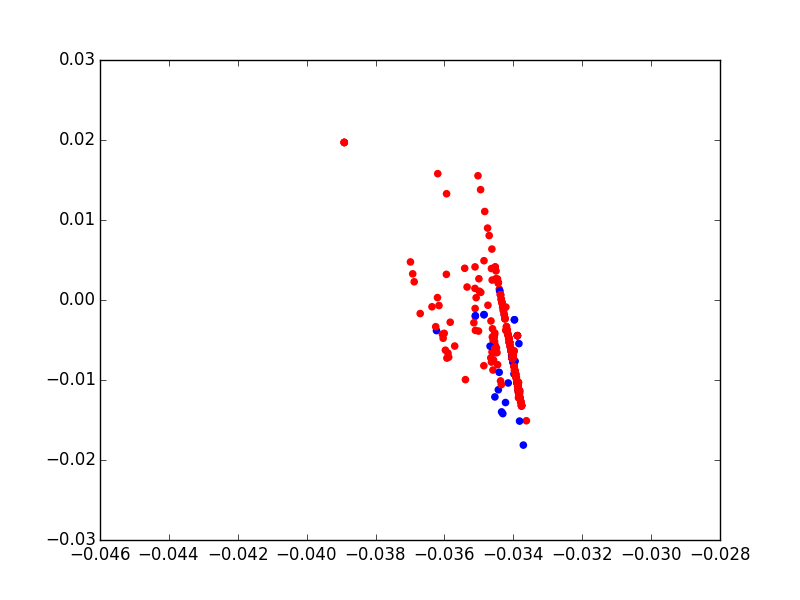
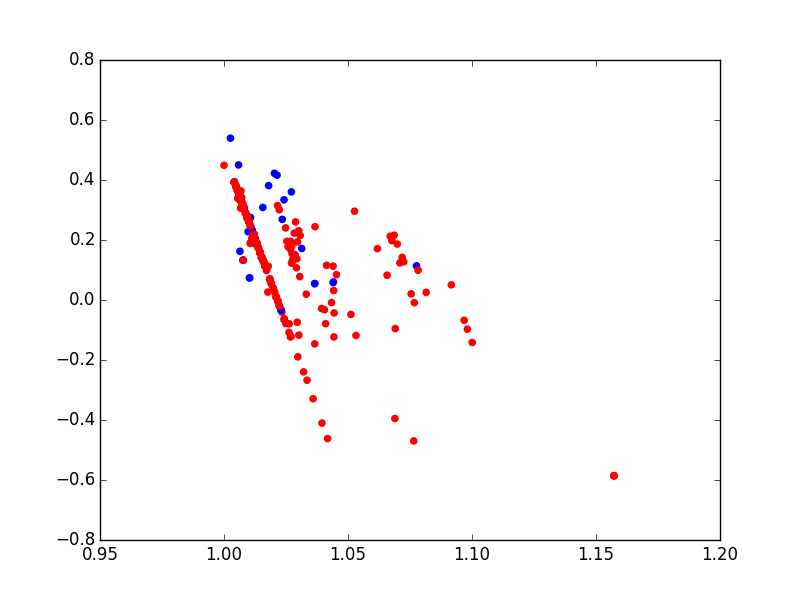
Scaling cluster plots

diff --git a/Titanic/Code/HelperMethods.py b/Titanic/Code/HelperMethods.py
@@ -112,8 +112,8 @@ def KMeansClustering(X, Y):
 	# Now generate 6 different plots
 	for c in range (noOfClusters):
 		indices = np.where (out == c);
-		x1 = pca.components_[0][indices];
-		x2 = pca.components_[1][indices];
+		x1 = pca.components_[0][indices] / max(pca.components_[0][indices]);
+		x2 = pca.components_[1][indices] / max(pca.components_[0][indices]);
 		cat = np.array(Y["Survived"])[indices];
 		fig2 = plt.figure();
 		ax2 = fig2.add_subplot(1, 1, 1);
